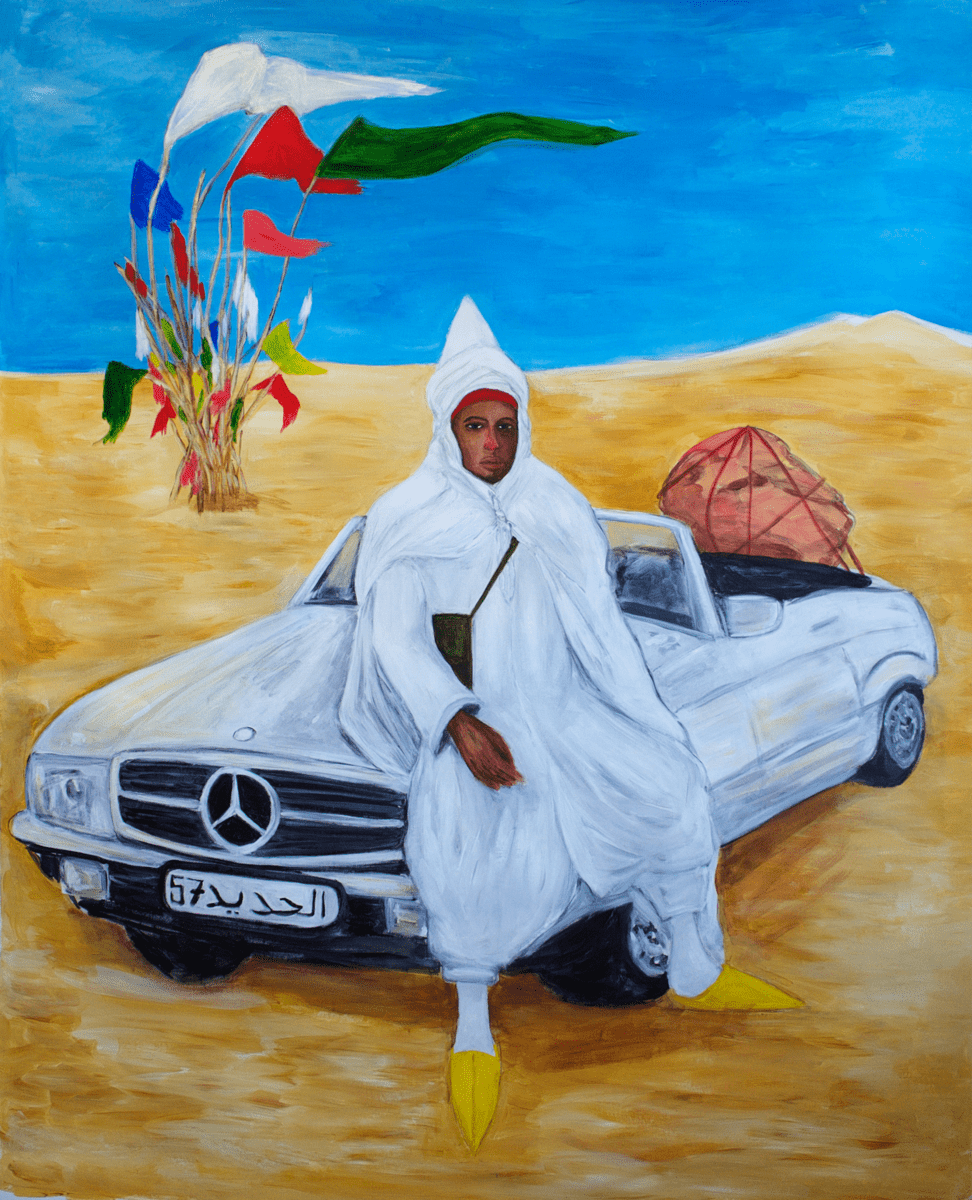
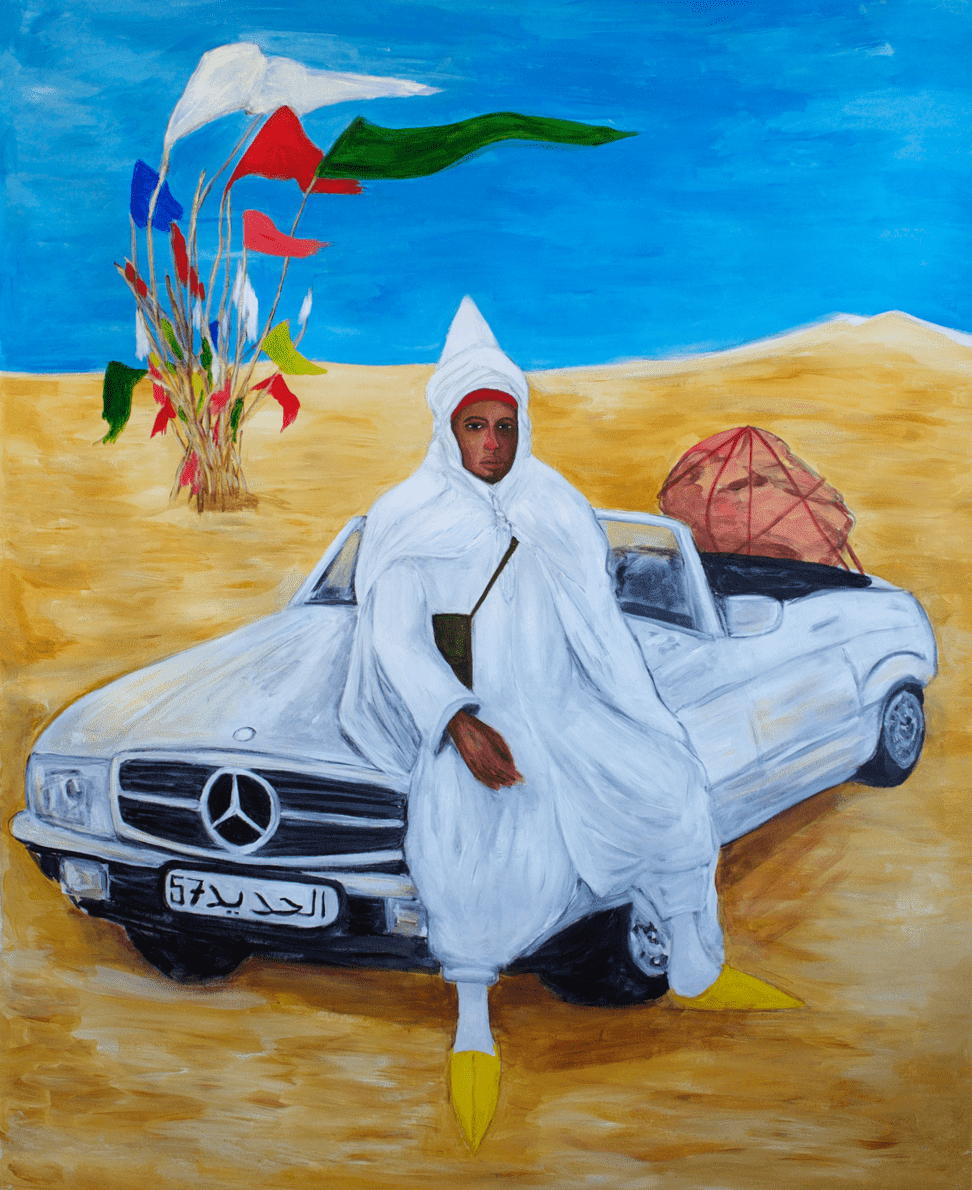
image adjustments

diff --git a/src/data/piecesData.js b/src/data/piecesData.js
@@ -1,5 +1,6 @@
 //-Assets
 import alHaddidImg from '../imgs/alHaddid.png'
+import alHaddidMob from '../imgs/alHaddidMob.png'
 // import triptic from '../imgs/triptic.png'
 import mustafaTheExpatImg from '../imgs/mustafaTheExpat.png'
 import dustMakersImg from '../imgs/dustMakers.png'
@@ -71,6 +72,7 @@ const piecesData = {
     foreverIsACurrentEventPt1: [
         {
             img: alHaddidImg,
+            imgMobile: alHaddidMob,
             name: "Al Haddid",
             techniques: "Acrylic on canvas",
             measurements: "200 / 160",
@@ -79,30 +81,35 @@ const piecesData = {
     foreverIsACurrentEventPt2: [
         {
             img: mustafaTheExpatImg,
+            imgMobile: alHaddidMob,
             name: "Mustafa The Expat",
             techniques: "Acrylic on canvas",
             measurements: "125 / 98",
         },
         {
             img: dustMakersImg,
+            imgMobile: alHaddidMob,
             name: "Dust Makers",
             techniques: "Acrylic on canvas",
             measurements: "190 / 140",
         },
         {
             img: weListenToAbdulImg,
+            imgMobile: alHaddidMob,
             name: "We Listen To Abdul-Bassit When We Open",
             techniques: "Acrylic on paper",
             measurements: "80 / 65",
         },
         {
             img: istiqamaImg,
+            imgMobile: alHaddidMob,
             name: "Istiqama",
             techniques: "Acrylic on canvas",
             measurements: "200 / 170",
         },
         {
             img: iveBeenHereBeforeImg,
+            imgMobile: alHaddidMob,
             name: "I've Been Here Before",
             techniques: "Acrylic on canvas",
             measurements: "80 / 57",
@@ -115,6 +122,7 @@ const piecesData = {
         // },
         {
             img: beKindAndRewindImg,
+            imgMobile: alHaddidMob,
             name: "Be Kind And Rewind",
             techniques: "Acrylic on canvas",
             measurements: "200 / 150",

diff --git a/src/components/Piece.js b/src/components/Piece.js
@@ -1,6 +1,6 @@
 // IMPORTS
   //-Modules
-  import React, { useEffect, useRef } from 'react'
+  import React, { useEffect, useRef, useState, useLayoutEffect } from 'react'
   import styled from 'styled-components'
   import gsap from 'gsap'
   import { LazyLoadImage } from 'react-lazy-load-image-component'
@@ -135,8 +135,24 @@
 //
 
 
+// CUSTOM RESIZE HOOK
+  const useWindowSize = () => {
+    const [size, setSize] = useState([0, 0]);
+    useLayoutEffect(() => {
+      function updateSize() {
+        setSize([window.innerWidth, window.innerHeight]);
+      }
+      window.addEventListener('resize', updateSize);
+      updateSize();
+      return () => window.removeEventListener('resize', updateSize);
+    }, []);
+    return size;
+  }
+// 
+
+
 // MAIN COMPONENT
-  const Piece = ({ imageProp, nameProp, measurementsProp, techniquesProp }) => {
+  const Piece = ({ imageProp, imageMobileProp, nameProp, measurementsProp, techniquesProp }) => {
 
     const infoTl = gsap.timeline({ paused: true })
 
@@ -148,12 +164,14 @@
       infoTl.to([nameRef, techniquesRef, measurementsRef], {duration: 0.375, yPercent: -100, stagger: 0.125, ease: "Power1.easeInOut"})
     }, [infoTl])
 
+    const [width] = useWindowSize()
 
     
     return (
         <PieceContainer>
 
-            <PieceImg src={imageProp} alt={nameProp} effect="blur" />
+
+            { width < 430 ? <PieceImg src={imageMobileProp} alt={nameProp} effect="blur" /> : <PieceImg src={imageProp} alt={nameProp} effect="blur" /> }
             
             <div className="infoPiece">
 

diff --git a/src/pages/ForeverIsACurrentEvent.js b/src/pages/ForeverIsACurrentEvent.js
@@ -28,6 +28,7 @@
             <Piece
               key={pieceItem.name}
               imageProp={pieceItem.img}
+              imageMobileProp={pieceItem.imgMobile}
               nameProp={pieceItem.name}
               measurementsProp={pieceItem.measurements}
               techniquesProp={pieceItem.techniques}
@@ -42,6 +43,7 @@
             <Piece
               key={pieceItem.name}
               imageProp={pieceItem.img}
+              imageMobileProp={pieceItem.imgMobile}
               nameProp={pieceItem.name}
               measurementsProp={pieceItem.measurements}
               techniquesProp={pieceItem.techniques}
